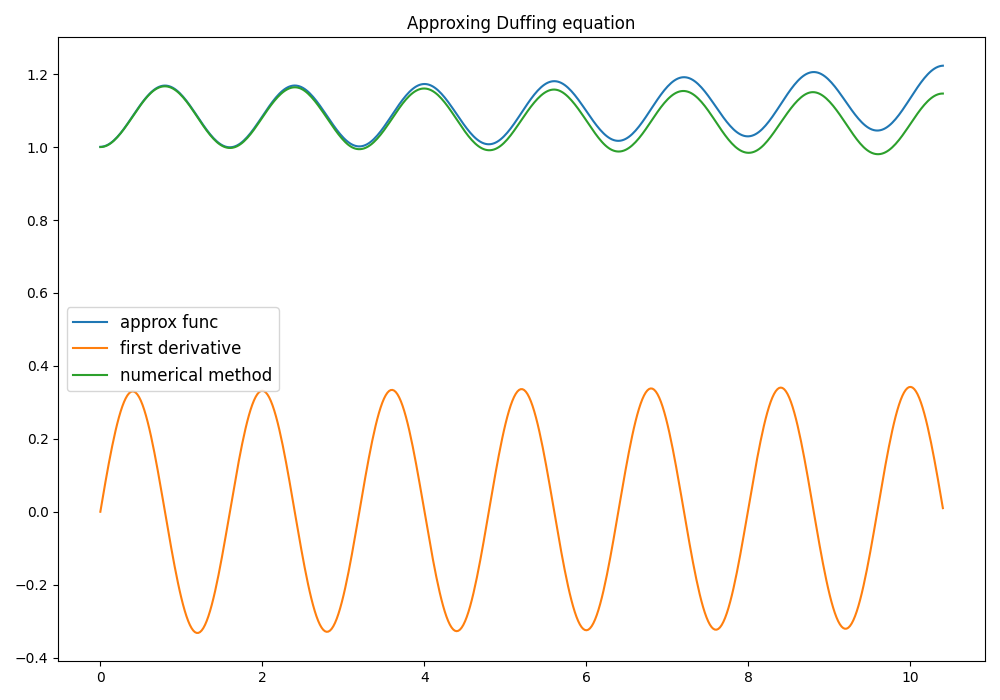
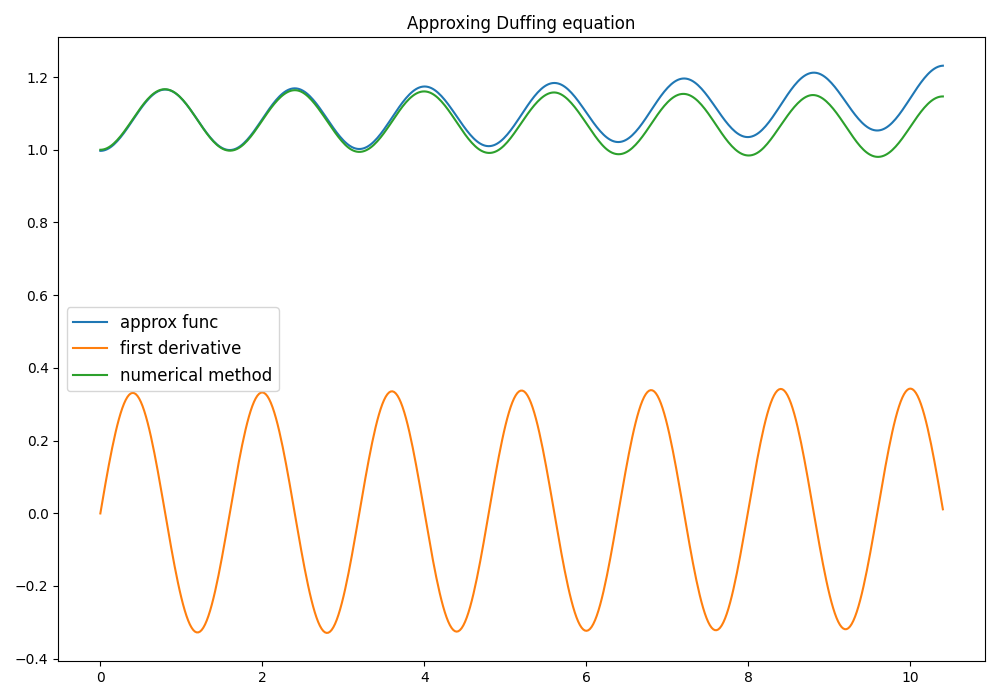
update_loss

diff --git a/src/Neural_network(PINN).py b/src/Neural_network(PINN).py
@@ -123,8 +123,9 @@ def pdeloss(t, epoh):
     dxdt = torch.autograd.grad(f_bc, t_bc, torch.ones_like(t_bc), create_graph=True, retain_graph=True)[0]
     f_bc = torch.cat([f_bc, dxdt], 0)
     loss_pde = metric_data(f_in, f_true)
-    loss_bc = metric_data(f_bc, g_true)
-    
+    # loss_bc = metric_data(f_bc, g_true)
+    loss_tens = torch.pow(f_bc-g_true, 2)
+    loss_bc = loss_tens[0] + loss_tens[1]
     loss_num = torch.max(torch.abs(f_in - num_data))
     
     loss = loss_pde + loss_bc*lambd
